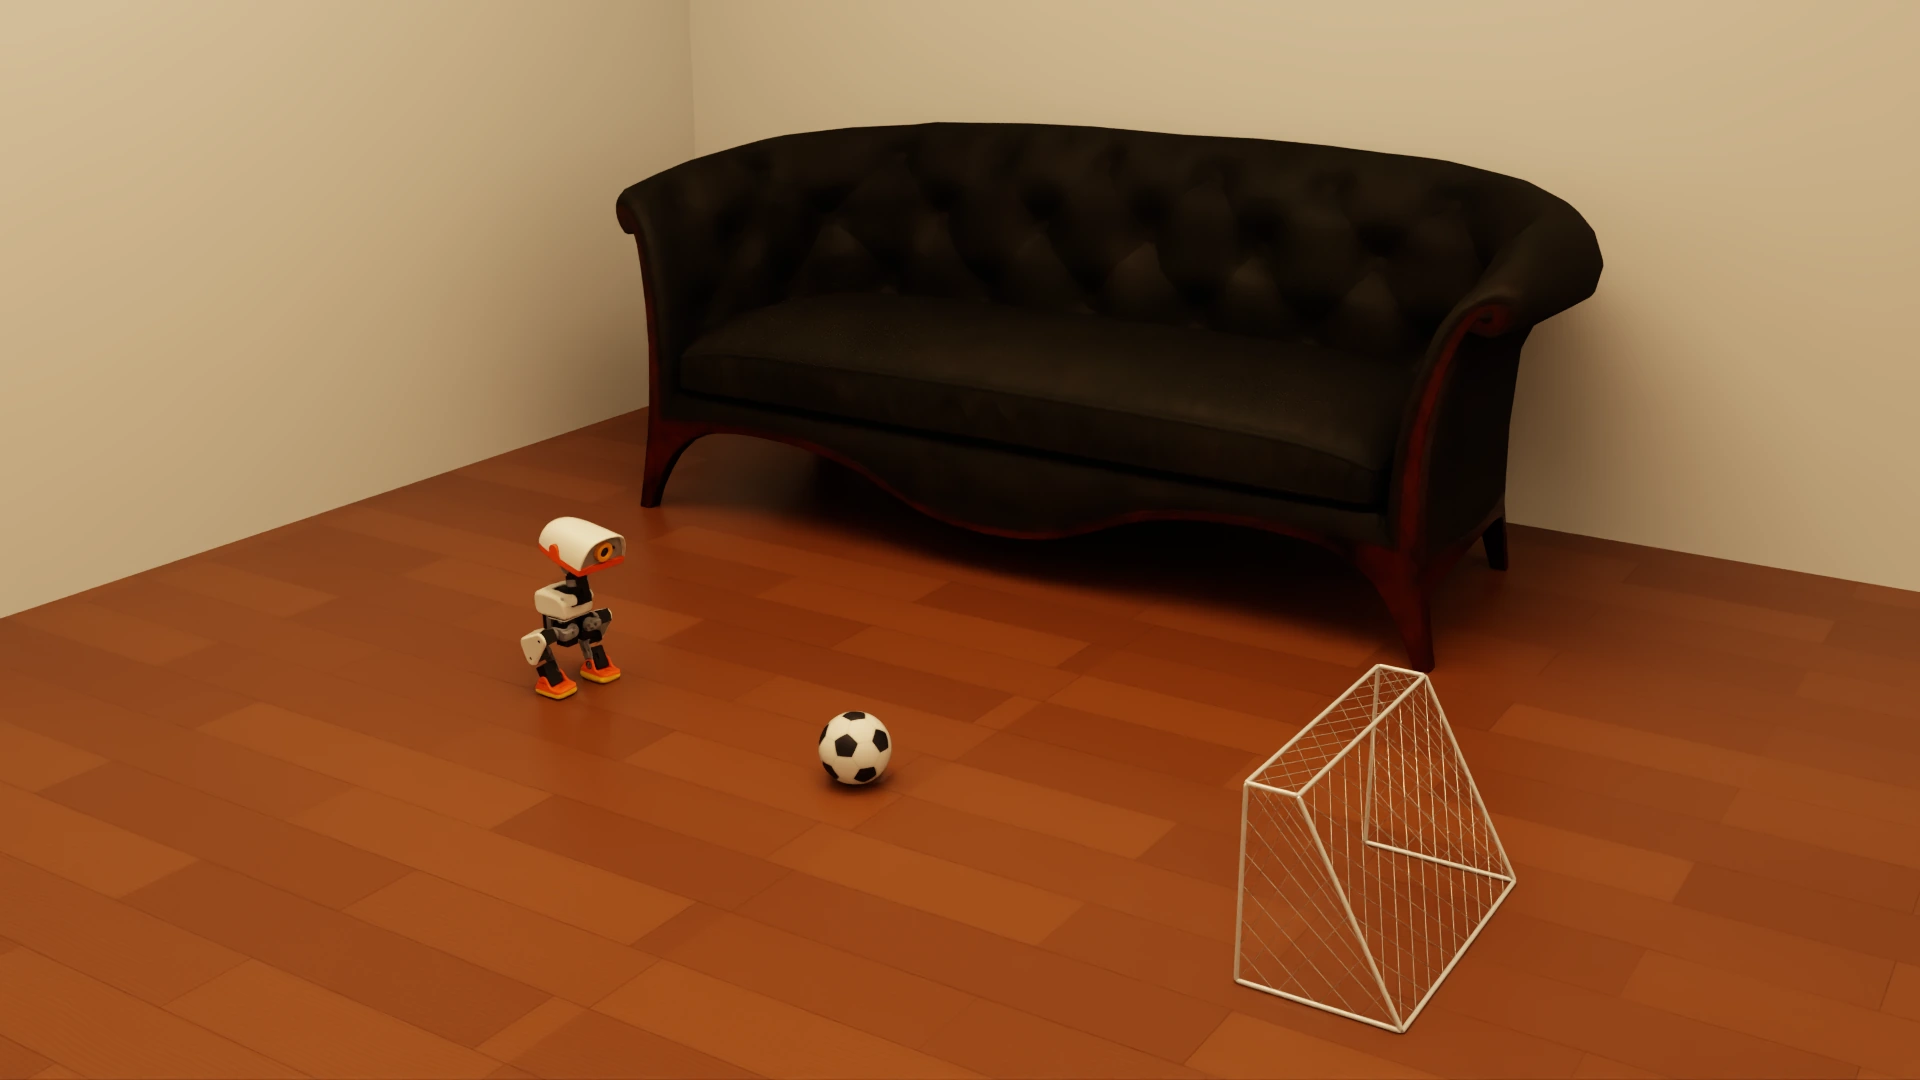
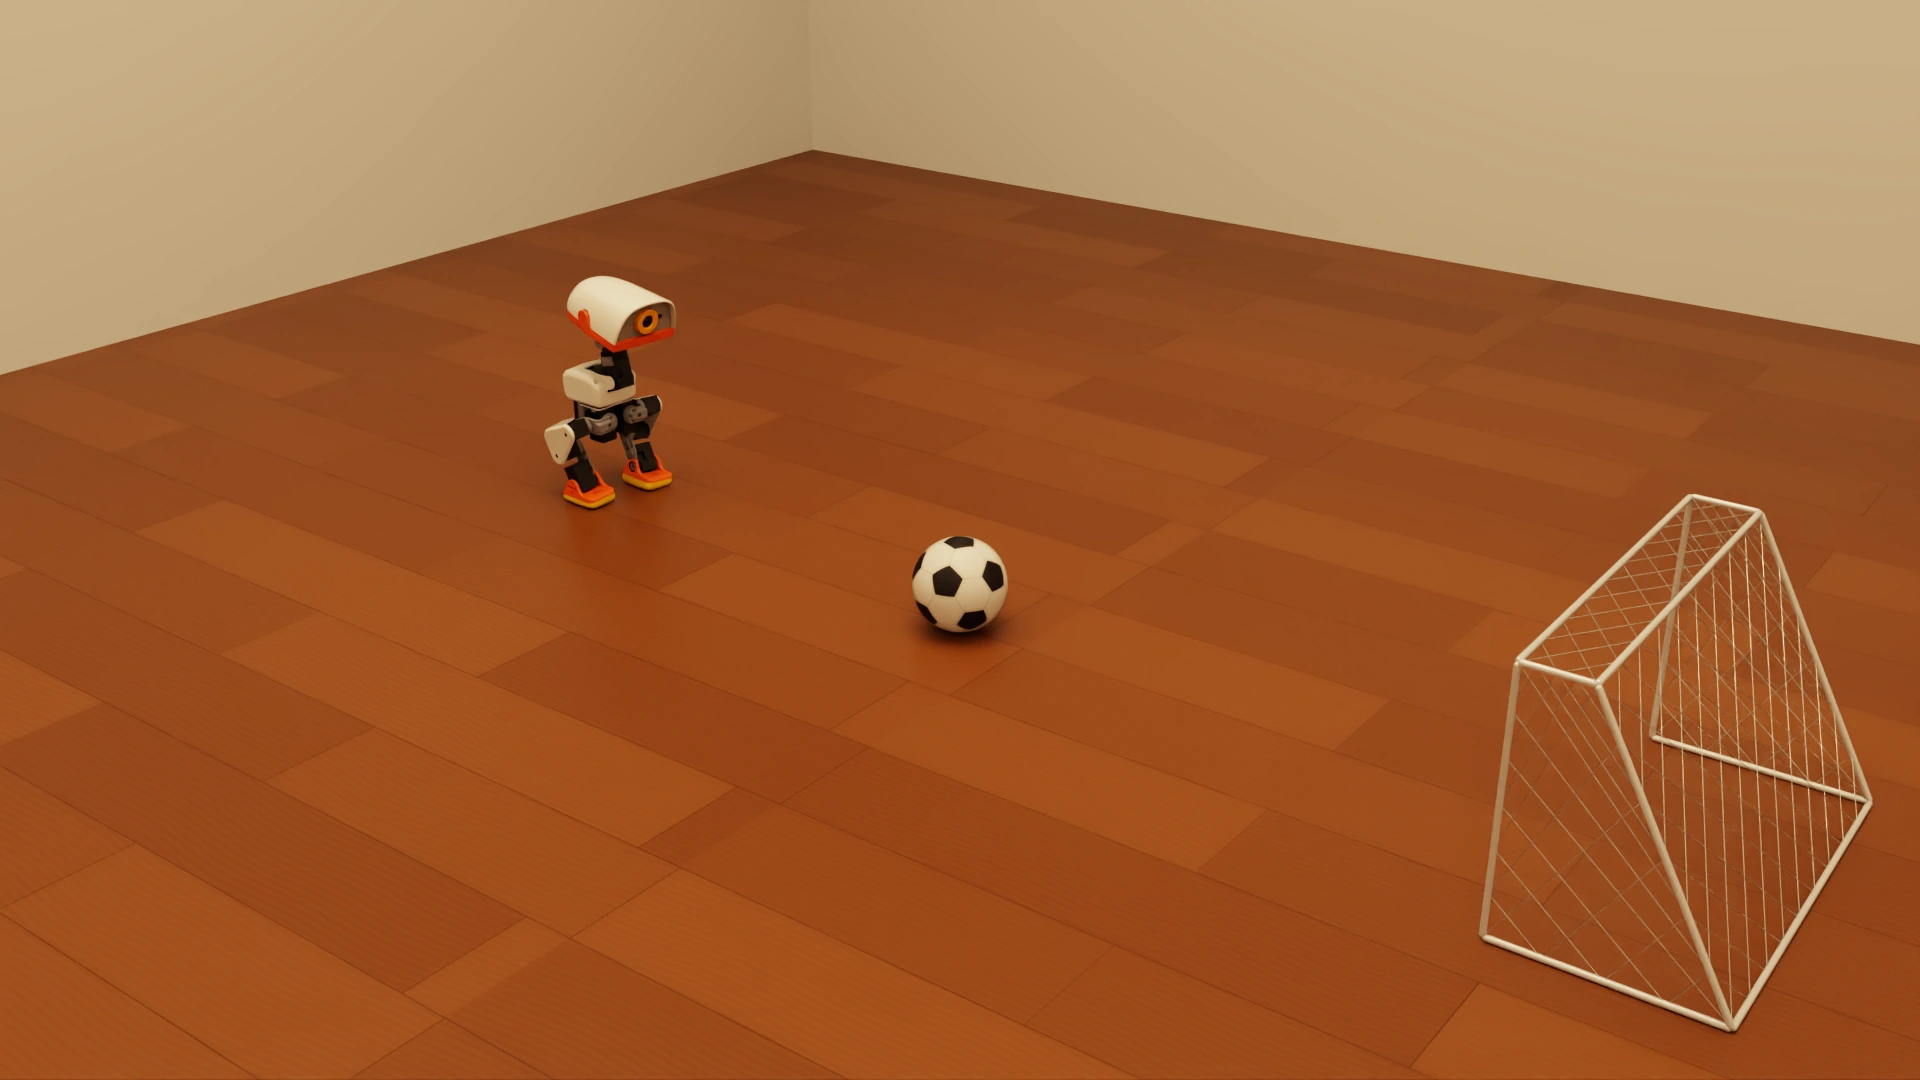
Restore the wooden-floor scene without a sofa at 4000 K

diff --git a/THIRD_PARTY_NOTICES.md b/THIRD_PARTY_NOTICES.md
@@ -42,4 +42,4 @@ Terrain lab appearance: `lab/course_labs/terrain_studio.py` uses the base-colour
 
 ## Environment teaching illustrations
 
-The `web/assets/media/environment-*.webp` images are static Isaac RTX illustrations of the course Microduck assets in course-authored display rooms. The wooden-floor illustration (`environment-wood.webp`) includes [Sofa 02](https://polyhaven.com/a/sofa_02) by Kirill Sannikov, from Poly Haven under [CC0](https://polyhaven.com/license), rendered from its original USD mesh and PBR textures at real-world scale. Powered by Poly Haven for asset discovery. The source sofa model and textures are kept in local production records, not included in the student runtime. Microduck and course prop attribution above continues to apply. These illustrations are not new physical task evaluations.
+The `web/assets/media/environment-*.webp` images are static Isaac RTX illustrations of the course Microduck assets in course-authored display rooms. Microduck and course prop attribution above continues to apply. These illustrations are not new physical task evaluations.
